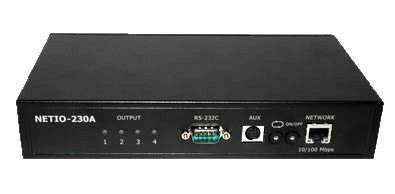
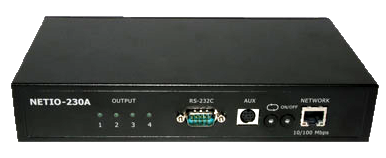
better images and link to photos of the inside of the NETIO 230A

Changed region(s): [[0.0311, 0.1013, 0.9948, 0.9114]]

diff --git a/index.html b/index.html
@@ -53,8 +53,8 @@ cheap but advanced multiple socket with Ethernet control. </div>
     <p>Front:<br />
     <img src="netio230a_front.png" alt="" /><br />
     Back:<br />
-    <img src="netio230a_back.png" alt="" /></p>
-
+    <img src="netio230a_back.png" alt="" /><br />
+    For more photos of the inside of the device check <a href="http://wiki.github.com/pklaus/netio230a/netio-230a-hardware">NETIO 230A Hardware</a> wiki site.</p>
 
     <h2>Download</h2>
     <p>
